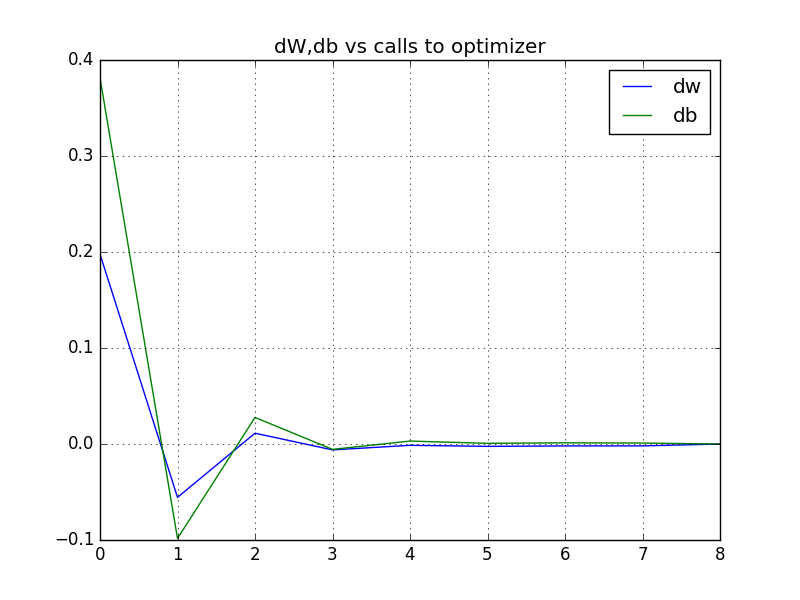
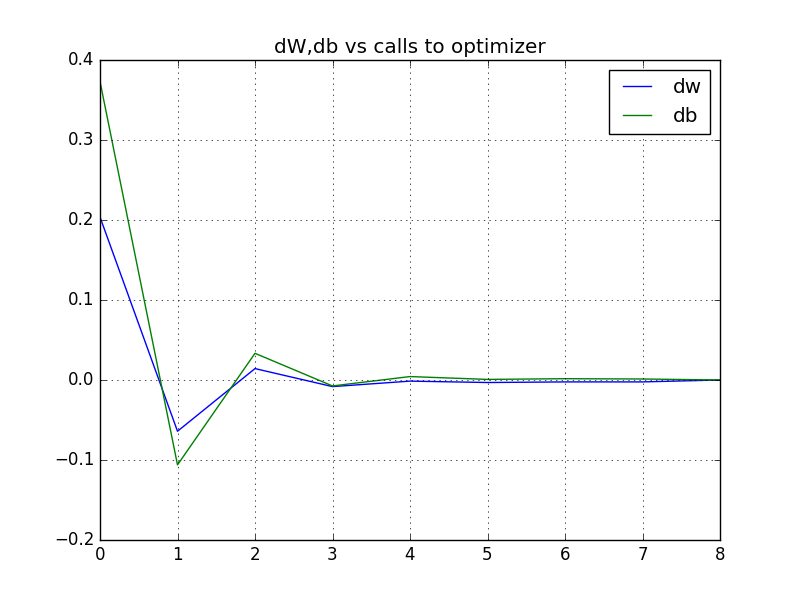
more

diff --git a/public/class05tf/demo13.py b/public/class05tf/demo13.py
@@ -2,6 +2,9 @@
 
 # This script should help me study ...
 # https://www.tensorflow.org/versions/r0.11/get_started/index.html
+# Ref:
+# http://ml4.us/cclasses/class05tf18
+
 # Demo:
 # ~/anaconda3/bin/python demo13.py
 
@@ -9,9 +12,10 @@ import tensorflow as tf
 import numpy      as np
 
 # Create phony x, y data points in NumPy, y = x * 0.1 + 0.3 + noise
-pts_i  = 20
-x_data = np.random.rand(pts_i).astype(np.float32)
-y_data = x_data * 0.1 + 0.3 + 0.05*np.random.rand(pts_i)
+pts_i   = 20
+noise_a = 0.05*np.random.rand(pts_i)
+x_data  = np.random.rand(pts_i).astype(np.float32)
+y_data  = x_data * 0.1 + 0.3 + noise_a
 
 # Try to find values for W and b that compute y_data = W * x_data + b
 # (We know that W should be 0.1 and b 0.3, but TensorFlow will
@@ -37,7 +41,6 @@ w_l = []
 b_l = []
 l_l = []
 
-import pdb
 # Fit the line.
 for step in range(9):
     tf_W = sess.run(W)
@@ -60,7 +63,7 @@ dl_l = []
 for i_i in range(len(w_l)-1):
   dw_l.append(w_l[i_i+1]-w_l[i_i])
   db_l.append(b_l[i_i+1]-b_l[i_i])
-  dl_l.append(l_l[i_i+1]   -l_l[i_i])
+  dl_l.append(l_l[i_i+1]-l_l[i_i])
 # I should make dw_l, db_l, dl_l same length as w_l
 dw_l.append(0.0)
 db_l.append(0.0)
@@ -72,13 +75,13 @@ gw_l = gw_a.tolist()
 gb_l = gb_a.tolist()
 
 import pandas as pd
-opt_d       = {'W':w_l}
-opt_df      = pd.DataFrame(opt_d)
-opt_df['b'] = b_l
-opt_df['loss'] = l_l
-opt_df['dw'] = dw_l
-opt_df['db'] = db_l
-opt_df['dL'] = dl_l
+opt_d           = {'W':w_l}
+opt_df          = pd.DataFrame(opt_d)
+opt_df['b']     = b_l
+opt_df['loss']  = l_l
+opt_df['dw']    = dw_l
+opt_df['db']    = db_l
+opt_df['dL']    = dl_l
 opt_df['dL/dw'] = gw_l
 opt_df['dL/db'] = gb_l
 
